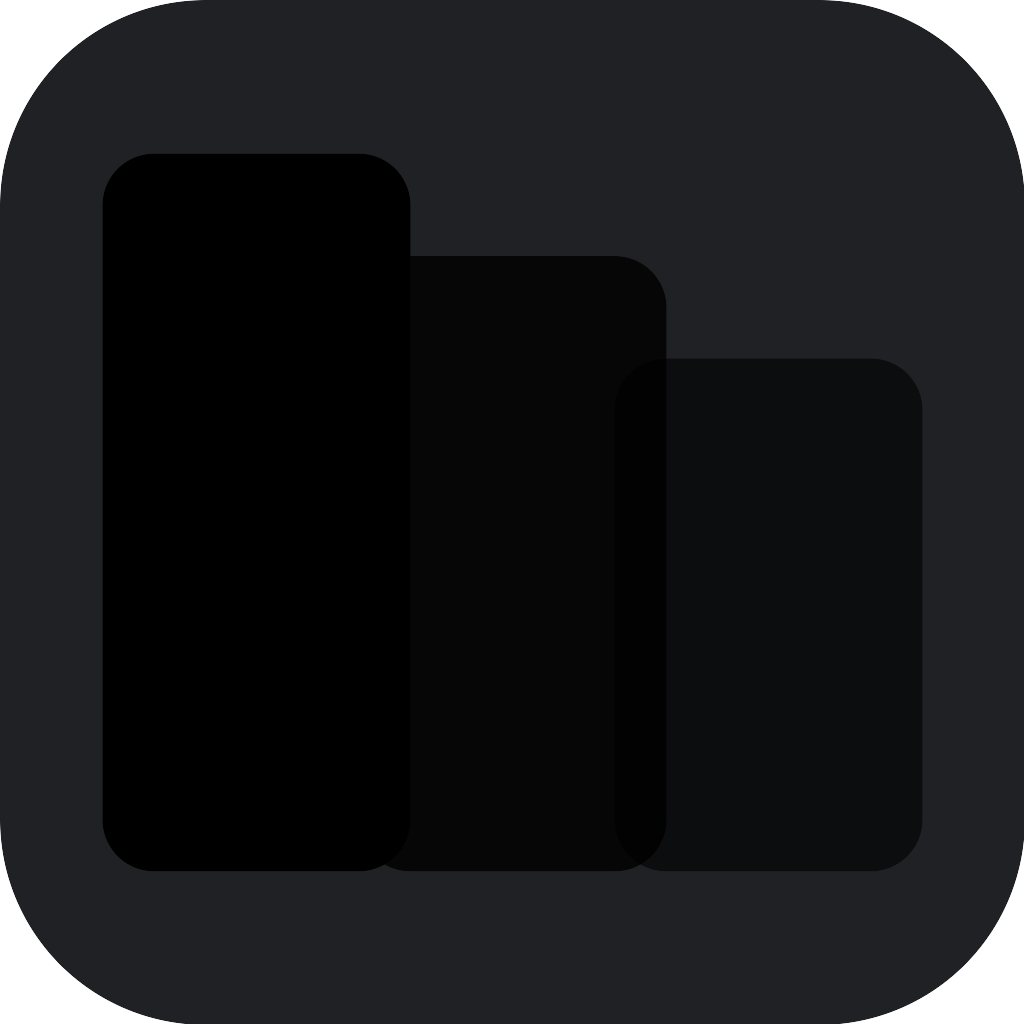
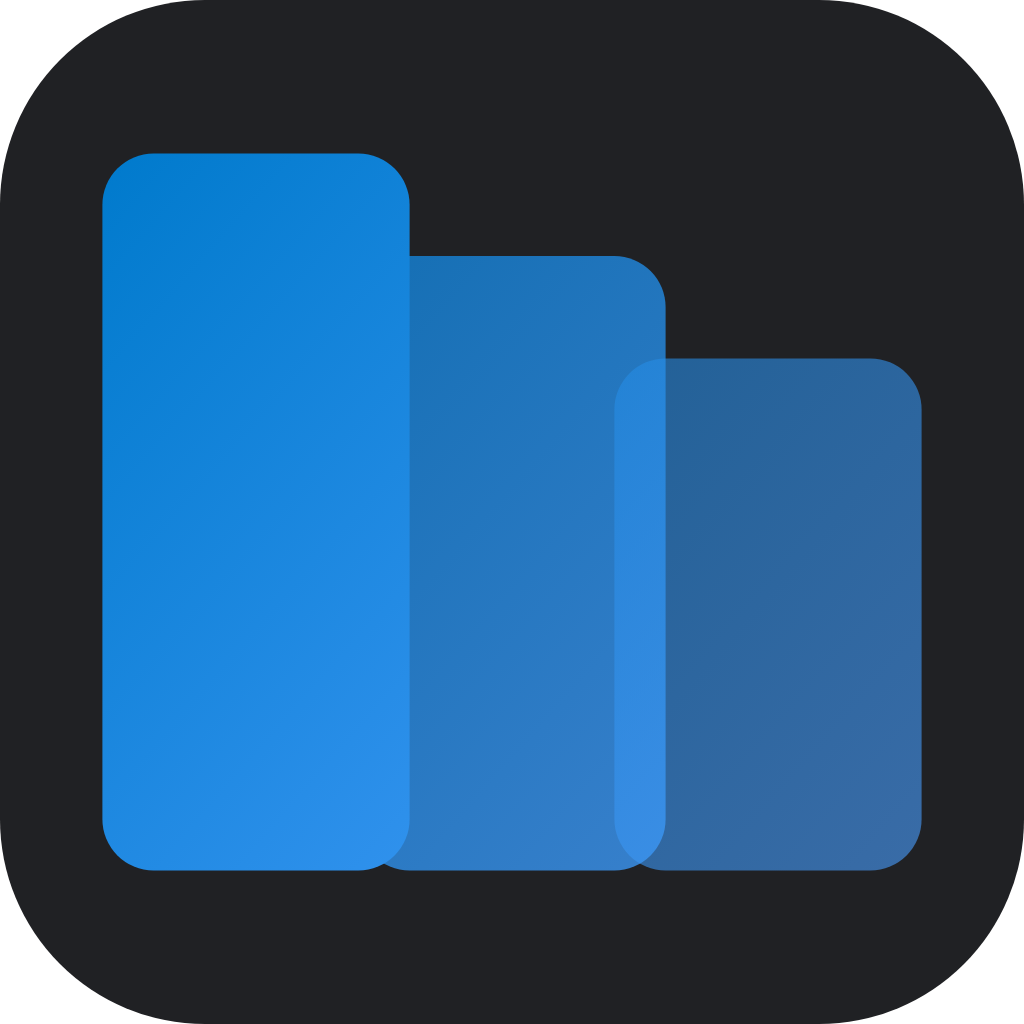
fix(electron): 앱 아이콘 PNG의 그라디언트가 검게 그려진 것을 고치고, dev 도크 아이콘 경로를 추적되는 파일로 바꾼다 (#508)
- resources/bitvue-icon.png는 SVG의 파란 그라디언트(#007acc→#4a9eff)가 그려지지 않아
  막대가 검은색이었다(그라디언트를 못 그리는 변환기로 만든 것으로 보인다). 도크와
  패키징된 앱 아이콘이 어두운 회색 사각형으로 보였다. Chromium(Electron)으로 투명 배경
  그대로 1024x1024로 다시 렌더했다. 패키징한 .icns에서도 파란색을 확인했다.
- dev 모드 도크 아이콘이 gitignore된 bitvue-desktop/build/icon.png를 읽어서, 새 체크아웃/
  워크트리에서는 파일이 없어 시작이 'Failed to load image'로 실패했다. 추적되는
  resources/bitvue-icon.png를 쓰게 한다.

diff --git a/bitvue-desktop/electron/main.ts b/bitvue-desktop/electron/main.ts
@@ -985,7 +985,9 @@ async function main(): Promise<void> {
   // overridden here. Packaged builds don't need this: electron-builder bakes the real icon
   // (`build.icon` in package.json) into the .app bundle's Info.plist at build time.
   if (!app.isPackaged && process.platform === "darwin") {
-    app.dock?.setIcon(path.join(here, "..", "..", "build", "icon.png"));
+    // resources/bitvue-icon.png is the tracked source of the mark (also the packaged build.icon);
+    // bitvue-desktop/build/ is gitignored, so a fresh checkout had no icon there and startup threw.
+    app.dock?.setIcon(path.join(repoRoot, "resources", "bitvue-icon.png"));
   }
 
   if (!existsSync(sidecarBinaryPath)) {
